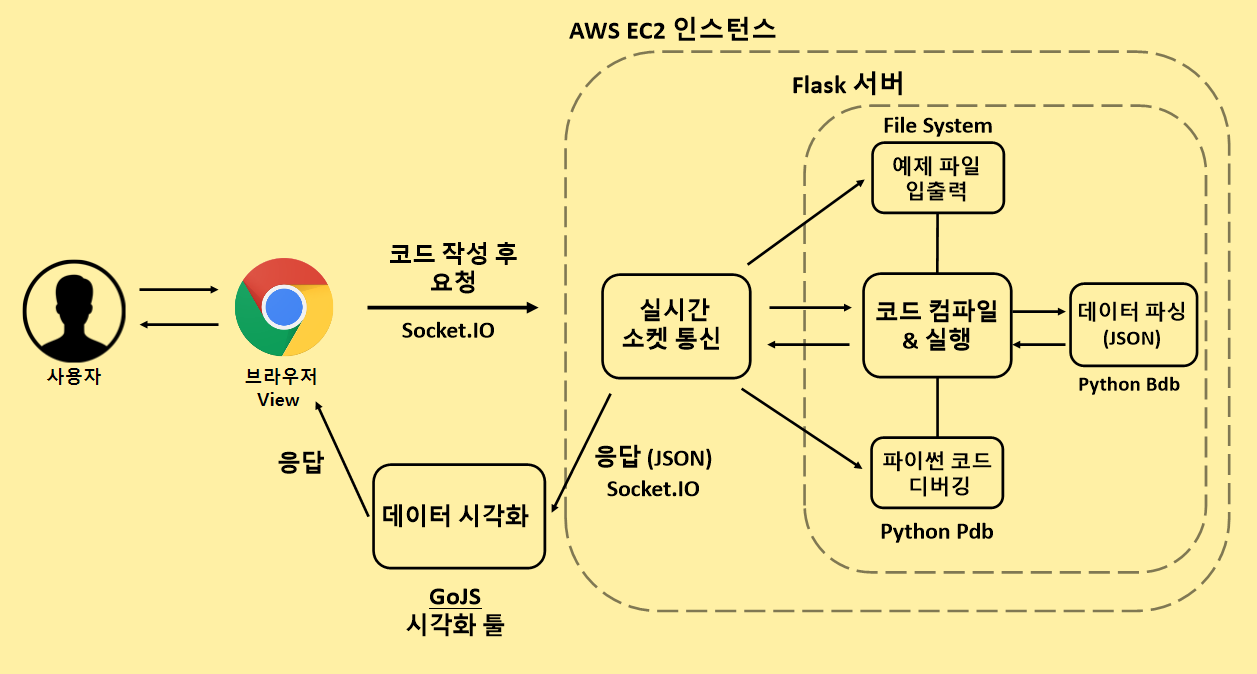
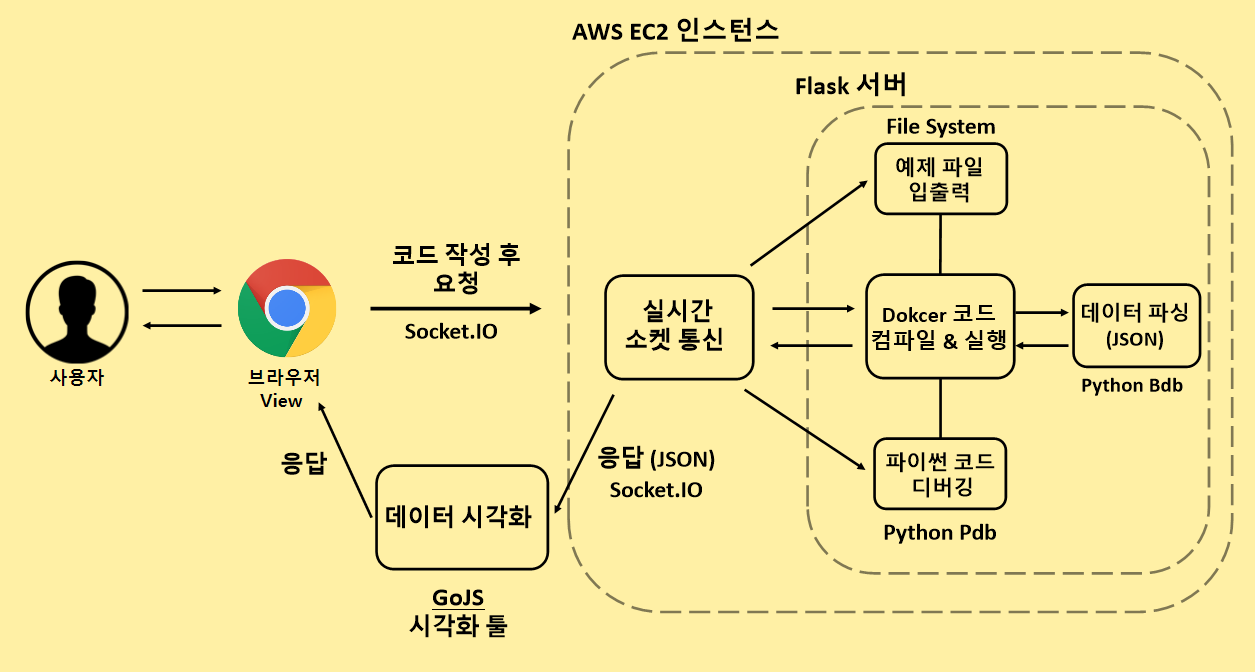
README.md update & Main View 수정

diff --git a/app/templates/index.html b/app/templates/index.html
@@ -87,7 +87,7 @@
       top: 50%;
       left: 50%;
       margin-top: -120px;
-      margin-left: -30px;
+      margin-left: -40px;
     }
 
     /* 부트스트랩 버튼 크기 */
@@ -141,8 +141,8 @@
   <!-- view 시작 -->
   <div class="container" style="display:none;">
     <!--       <a href="#" id="link" download="sample.json">download</a> -->
-    <div class="row" style="margin-top:15px">
-      <div class="col-md-6" style="min-width:500px">
+    <div class="row" style="margin-top:55px; margin-left:20px">
+      <div class="col-md-6" style="margin-left:-50px">
         <p>
           Version
           <select class="form-control form-control-sm" name="version">
@@ -174,7 +174,7 @@
           <button id="stop" class="btn btn-danger btn-fix" type="button">Stop</button>
           <button id="example" class="btn btn-info btn-fix" type="button">Example</button>
         </div>
-        <div id="viz_step">
+        <div id="viz_step" style="margin-top:10px">
           <div> <span style="color:#FFFFFF; font-size:x-large"> → </span> <span> 현재 실행된 라인 </span></div>
           <div> <span style="color:#30A9DE; font-size:x-large"> → </span> <span> 다음에 실행될 라인 </span></div>
 
@@ -194,9 +194,9 @@
         </div>
       </div>
 
-      <div class="col-md-6" style="margin-top:10px">
+      <div class="col-md-6" style="margin-top:10px; margin-left:50px">
         <!-- 예제 뷰 -->
-        <div id="example_view" style="display:none;" toggle='0'>
+        <div id="example_view" toggle='1'>
           {% include 'example.html' %}
         </div>
 
@@ -223,6 +223,7 @@
 
     </div>
     <!-- container -->
+  </div>
 
     <!-- Jquery -->
     <script src="https://ajax.googleapis.com/ajax/libs/jquery/3.4.0/jquery.min.js"></script>

diff --git a/README.md b/README.md
@@ -7,12 +7,12 @@
 #### 서비스 개요
 준비된 다양한 예제를 실시간으로 코드 실행 단위 별로 시각화해주어 직관적으로 이해를 도와주는 웹 플랫폼입니다.
 
-#### 누구를 위한 서비스?
+#### 누구를 위한 서비스 ?
 1. 코딩을 처음 접하는 사용자
 2. 나의 코드가 어떻게 순차적으로 실행되는지 궁금해하는 사용자
 3. Python 개발 환경을 따로 설치할 필요없이 웹 브라우저에서 코드를 실행 시키고 싶은 사용자
 
-## 서비스 구성
+## 서비스 구성도
 ![screenshot_2](./app/static/OCT_system_info.png)
 
 ## 구현 사항
@@ -36,20 +36,57 @@
 4. Pdb 디버깅 툴을 이용한 디버깅 기능 제공
 5. 개발환경 설정 필요 없이 웹 브라우저에서 코드를 실행시킬 수 있는 플랫폼을 제공
 
-## 세부 기능
-1. 노드 클릭시 pointing하는 노드 하이라이트 기능
-2. 마우스 클릭 후 드래그해서 Diagram 이동 가능
+## Reference
 
-## 주의 사항
-<!-- ### 코드 시각화 -->
-* class, range, closur, decorator(@), unpack(*) - 지원하지 않습니다
-* 단계가 250 넘어가면 실행되지 않습니다 -> 250단계까지만 실행
+#### Visualize
+1. Python 2.7 버전 기반으로 코드 시각화
+2. 노드 클릭시 해당 노드가 Pointing 하는 모든 노드들을 하이라이트 해주는 기능
+  > 노드가 어떤 노드들을 가르키는지 확인 가능
+3. 마우스 클릭 후 드래그해서 Diagram 이동 가능
+4. 진행 상황의 처음, 이전, 다음, 마지막 단계를 볼 수 있는 기능 제공
+
+#### Run
+- Python2.7, Python3.6 버전 지원
+- Docker 가상 환경에서 코드 컴파일 & 실행 (SandBoxing)
+- 모듈 Import 기능 제공 (Python2,3 기본 모듈)
+- 원하는 코드를 실행해 결과 확인 가능
+
+#### Debug
+- Python2.7, Python3.6 버전 지원
+- 모듈 Import 기능 제한 (os, sys, subprocess, ...)
+- Pdb 디버깅 툴을 이용한 디버깅 가능 (명령어 입력 방식)
+  > Pdb reference  
+  > 2.7 버전 : https://docs.python.org/ko/2.7/library/pdb.html  
+  3.6 버전 : https://docs.python.org/ko/3.6/library/pdb.html
+
+#### AWS EC2 - Ubuntu 서버 정보
+- Version : Ubuntu 18.04.3 LTS
+- CPU Model : Intel(R) Xeon(R) CPU E5-2676 v3 @ 2.40GHz
+- Memory : 1GB
+
+#### Docker Container 정보
+- Python2.7, Python3.6 빌드
+- CPU Limit - CPU 자원 제한 크기 (Default : CPU 1개 할당)
+- Memory Limit - 메모리 제한 크기 (Default : 64메가)
+- IO Access Limit : READ_ONLY (읽기만 가능)
+
+## 제약 사항
+
+#### Visualize
+* class, range, closur, decorator(@), unpack(*)
+  > 지원하지 않습니다
+* 코드 단계는 250 단계 제한
+  > 250 단계를 넘어서는 코드는 실행 제한
 * global string 길이 제한
 * object string 길이 제한
 
-#### TabError: inconsistent use of tabs and spaces in indentation
-* 해당 에러는 들여쓰기 에러에 해당됩니다.
-* python style guid(pep8)에서는 들여쓰기 = 4 spaces 로 규정해놓았으니 이를 참고해주세요.
+#### 공통
+##### TabError: inconsistent use of tabs and spaces in indentation
+- 해당 에러는 들여쓰기 에러에 해당됩니다.
+- python style guid(pep8)에서는 들여쓰기 = 4 spaces 로 규정해놓았으니 이를 참고해주세요.
+
+## 문의 사항
+Email : wwlee9410@gmail.com 으로 연락주세요.
 
 <!-- ## 추후 업데이트 사항
 * pdb 커맨드 레퍼런스 제공 예정
